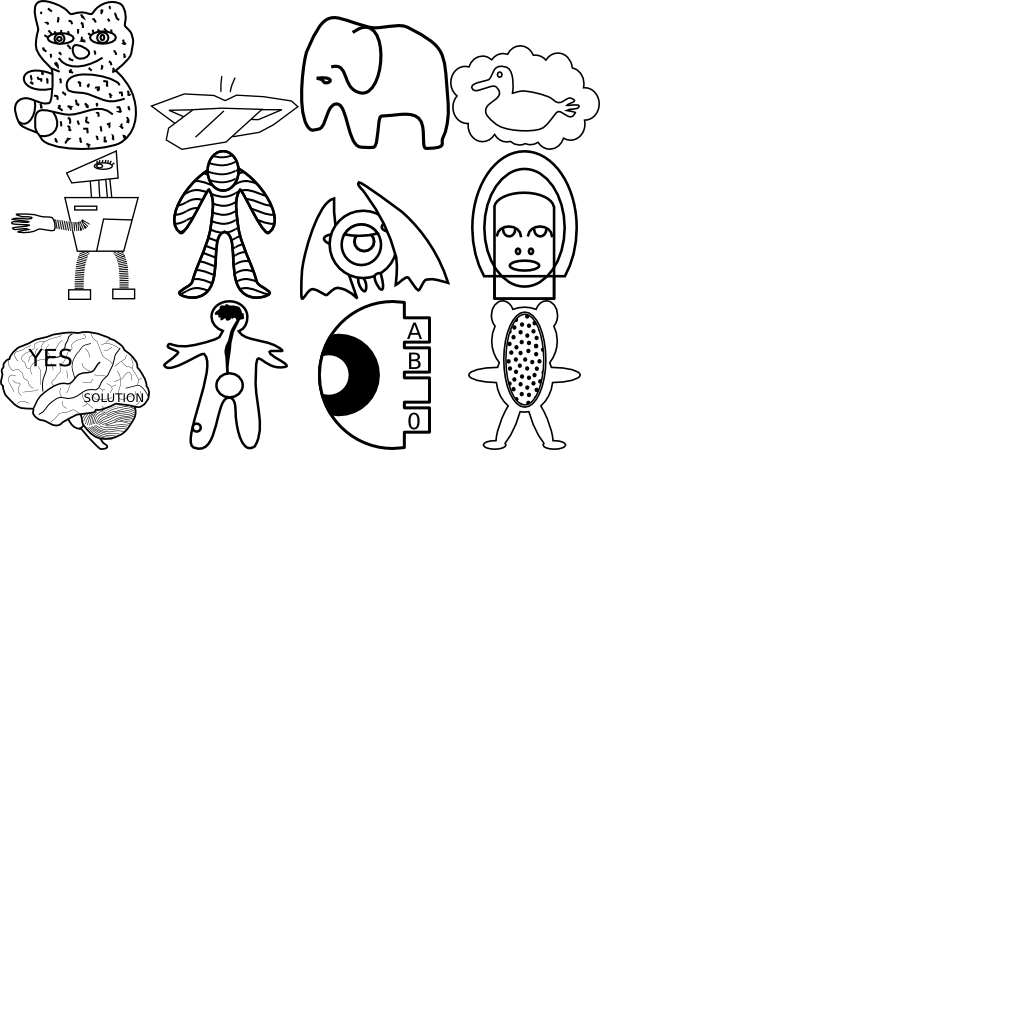
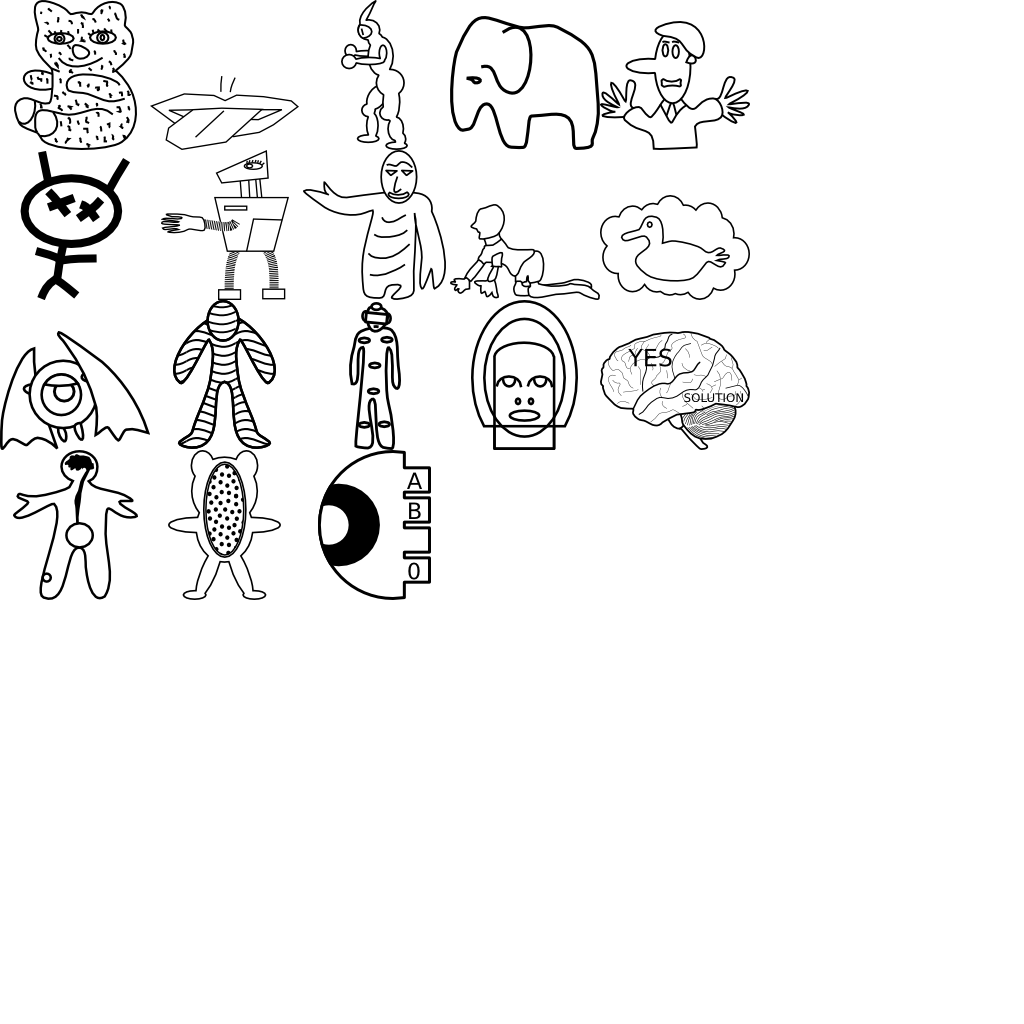
Five new creatures.

Changed region(s): [[0.0, 0.0, 0.75, 0.5938], [0.6875, 0.2188, 0.7188, 0.2812]]

diff --git a/src/com/zarkonnen/PatentBlaster.java b/src/com/zarkonnen/PatentBlaster.java
@@ -48,7 +48,7 @@ public class PatentBlaster implements Game {
 	public static final boolean DEMO = false;
 	public static final int DEMO_LEVELS = 3;
 	
-	public static final int NUM_IMAGES = DEMO ? 4 : 12;
+	public static final int NUM_IMAGES = DEMO ? 5 : 17;
 	public static final int NUM_VOICES = DEMO ? 3 : 14;
 	public static final int FPS = 60;
 	public static final String ALPHABET = " qwertyuiopasdfghjklzxcvbnmQWERTYUIOPASDFGHJKLZXCVBNM1234567890-=+_!?<>,.;:\"'@£$%^&*()[]{}|\\~/±";
@@ -56,16 +56,22 @@ public class PatentBlaster implements Game {
 
 	public static final Fount FOUNT = new Fount("LiberationMono18", 14, 24, 12, 24, ALPHABET);
 	public static final Fount SMOUNT = new Fount("Courier12", 10, 15, 7, 15, ALPHABET);
-	public static final String[] IMG_NAMES = {"bat", "bear", "elephant", "thing", "mummy", "tongue", "eye", "brain", "robot", "head", "duck", "empty_bear"};
-	public static final String[] PRETTY_IMG_NAMES = {"Bat", "Bear", "Elephant", "Brain-Thing", "Mummy", "Tongue", "Eye", "Brain", "Robot", "Head", "Duck", "Empty Bear"};
-	public static final int[] IMG_NUMS = { 1, 3, 3, 3, 1, 2, 0, 1, 4, 2, 0, 5 };
-	public static final double[] IMG_SHOOT_X = { 0.44, 0.45, 0.18, 0.56, 0.49, 0.50, 0.20, 0.37, 0.15, 0.50, 0.33, 0.50 };
-	public static final double[] IMG_SHOOT_Y = { 0.51, 0.65, 0.47, 0.08, 0.12, 0.14, 0.50, 0.37, 0.48, 0.28, 0.50, 0.39 };
-	public static final double[] IMG_MOUTH_X = { 0.44, 0.50, 0.10, 0.54, 0.47, 0.48, 0.20, 0.67, 0.47, 0.50, 0.19, 0.50 };
-	public static final double[] IMG_MOUTH_Y = { 0.51, 0.43, 0.83, 0.57, 0.24, 0.53, 0.50, 0.67, 0.18, 0.77, 0.40, 0.39 };
+	public static final String[] IMG_NAMES = {"boxer", "bat", "bear", "elephant", "thing", "mummy", "tongue", "eye", "brain", "robot", "head", "duck", "empty_bear", "screenhead", "crawler", "shrugger", "stick_demon", "smiler"};
+	public static final String[] PRETTY_IMG_NAMES = {"Boxer", "Bat", "Bear", "Elephant", "Brain-Thing", "Mummy", "Tongue", "Eye", "Brain", "Robot", "Head", "Duck", "Empty Bear", "Screenhead", "Crawler", "Shrugger", "Stick Demon", "Smiler"};
+	public static final int[] IMG_NUMS = { 4, 1, 3, 3, 3, 1, 2, 0, 1, 4, 2, 0, 5, 3, 0, 0, 0, 0 };
+	public static final double[] IMG_SHOOT_X = { 0.32, 0.44, 0.45, 0.18, 0.56, 0.49, 0.50, 0.20, 0.37, 0.15, 0.50, 0.33, 0.50,
+	0.50, 0.21, 0.50, 0.50, 0.17};
+	public static final double[] IMG_SHOOT_Y = { 0.41, 0.51, 0.65, 0.47, 0.08, 0.12, 0.14, 0.50, 0.37, 0.48, 0.28, 0.50, 0.39,
+	0.11, 0.54, 0.33, 0.50, 0.28};
+	public static final double[] IMG_MOUTH_X = { 0.41, 0.44, 0.50, 0.10, 0.54, 0.47, 0.48, 0.20, 0.67, 0.47, 0.50, 0.19, 0.50,
+	0.50, 0.21, 0.46, 0.50, 0.65};
+	public static final double[] IMG_MOUTH_Y = { 0.21, 0.51, 0.43, 0.83, 0.57, 0.24, 0.53, 0.50, 0.67, 0.18, 0.77, 0.40, 0.39,
+	0.17, 0.54, 0.55, 0.50, 0.30};
 	
-	public static final double[] IMG_W =       { 1.00, 0.82, 1.00, 0.83, 0.69, 1.00, 0.75, 1.00, 0.85, 0.71, 1.00, 0.75 };
-	public static final double[] IMG_H =       { 0.79, 1.00, 0.89, 1.00, 1.00, 0.49, 1.00, 0.79, 1.00, 1.00, 0.70, 1.00 };
+	public static final double[] IMG_W =       { 0.45, 1.00, 0.82, 1.00, 0.83, 0.69, 1.00, 0.75, 1.00, 0.85, 0.71, 1.00, 0.75,
+	0.35, 1.00, 1.00, 0.73, 0.95};
+	public static final double[] IMG_H =       { 1.00, 0.79, 1.00, 0.89, 1.00, 1.00, 0.49, 1.00, 0.79, 1.00, 1.00, 0.70, 1.00,
+	1.00, 0.64, 0.86, 1.00, 1.00};
 	
 	public static final Clr PAPER = new Clr(230, 230, 225);
 	public static final Clr PAINTING_FRAME = new Clr(70, 50, 20);
